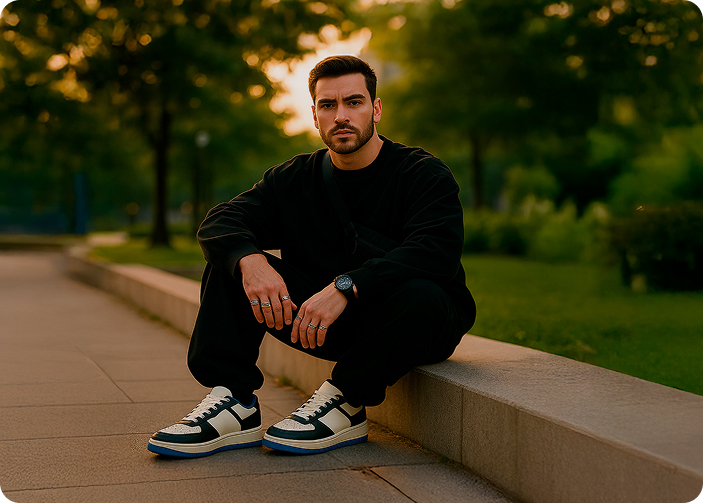
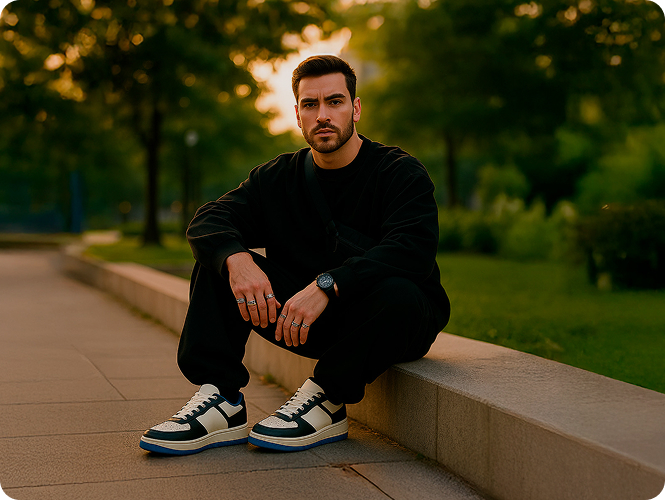
feat: adiciona o readme

diff --git a/shoe-store/index.html b/shoe-store/index.html
@@ -118,12 +118,14 @@
         <section class="grid-section">
             <!-- Grid com produtos em destaque -->
             <div class="card highlight">
-                <div class="top1-content">
-                    <h3 class="card-title">Krypton One</h3>
-                    <p class="card-subtitle">Estilo Urbano com atitude</p>
-                    <div class="cta group">
-                        <a href="#" class="btn btn-outline">Feminino</a>
-                        <a href="#" class="btn btn-outline">Masculino</a>
+                <div class="grid-overlay">
+                    <div class="top1-content">
+                        <h3 class="card-title">Krypton One</h3>
+                        <p class="card-subtitle">Estilo Urbano com atitude</p>
+                        <div class="cta group">
+                            <a href="#" class="btn btn-outline">Feminino</a>
+                            <a href="#" class="btn btn-outline">Masculino</a>
+                        </div>
                     </div>
                 </div>
             </div>

diff --git a/shoe-store/css/product-grid.css b/shoe-store/css/product-grid.css
@@ -1,10 +1,10 @@
 .card {
-    background-size: cover;
     background-position: center;
+     background-size: cover;
     background-repeat: no-repeat;
     position: relative;
     border-radius: 20px;
-    overflow: hidden;
+    /* overflow: hidden; */
 }
 
 
@@ -75,6 +75,7 @@
 .cta-group {
     display: flex;
     gap: 10px;
+    
 }
 
 @media (max-width: 768px) {
@@ -102,7 +103,18 @@
     .sneaker-white,
     .sneaker-purple {
         height: 190px;
+    }   
+}
+
+/* @media screen and (max-width: 1166px) {
+    .card-highlight {
+        height: 490px;
+        background-image: url(../images/banners/card_mobile.jpg.jpg);
     }
 
+    .grid-overlay{
+        padding: 0;
+    }
 
-}
+    
+} */

diff --git a/shoe-store/css/product-category.css b/shoe-store/css/product-category.css
@@ -54,7 +54,7 @@
         background-size: cover;
     }
 
-   @media (max-width: 768px) {
+   @media (max-width: 500px) {
         .categories-section {
            width: 100%;
         }

diff --git a/shoe-store/css/base.css b/shoe-store/css/base.css
@@ -11,7 +11,7 @@ main{
     margin: 0 auto;
 }
 
-@media (max-width: 1280px){
+@media (max-width: 1366px){
     main{
         padding: 0.625rem;
     }

diff --git a/shoe-store/css/hero.css b/shoe-store/css/hero.css
@@ -65,5 +65,9 @@
         max-width: 330px;
         margin: 0 auto;
     }
+
+    
+
+   
 }
 

diff --git a/README.md b/README.md
@@ -1,1 +1,73 @@
-# ecommerce-syntaxwear
+# SyntaxWear
+
+SyntaxWear é um projeto de landing page para um e-commerce de tênis e sneakers, com foco em estilo urbano, esportivo e contemporâneo. A interface foi criada para apresentar os principais modelos, categorias e chamar atenção para as ofertas e novidades.
+
+## Visão geral
+
+Este projeto possui uma estrutura simples e estática, desenvolvida com HTML e CSS, com uma experiência visual moderna e organizada. A página inicial reúne:
+
+- hero section com destaque para um modelo principal;
+- cards de categorias como Casual, Esporte, Moderno e Futurista;
+- grid de produtos em destaque;
+- área de newsletter e footer com navegação complementar.
+
+## Funcionalidades
+
+- Layout moderno e limpo para um e-commerce de moda urbana;
+- Seção inicial com mensagem forte e botões de ação;
+- Categorias visuais para facilitar a navegação;
+- Grade de produtos com destaque visual;
+- Rodapé com informações de contato, redes sociais e navegação secundária.
+
+## Tecnologias utilizadas
+
+- HTML5
+- CSS3
+- Arquivos SVG e imagens para composição visual
+
+## Estrutura do projeto
+
+```text
+README.md
+shoe-store/
+│
+├── index.html
+├── css/
+│   ├── base.css
+│   ├── footer.css
+│   ├── header.css
+│   ├── hero.css
+│   ├── product-category.css
+│   ├── product-grid.css
+│   ├── reset.css
+│   └── variables.css
+├── images/
+│   ├── banners/
+│   ├── icons/
+│   └── products/
+└── pages/
+```
+
+## Como visualizar o projeto
+
+1. Acesse a pasta `shoe-store`.
+2. Abra o arquivo `index.html` em um navegador.
+3. Se preferir, utilize uma extensão como Live Server no VS Code para visualizar a página com atualização automática.
+
+## Como personalizar
+
+- Edite o conteúdo principal em `shoe-store/index.html`.
+- Ajuste os estilos em `shoe-store/css/`.
+- Troque imagens e ícones nas pastas `shoe-store/images/`.
+
+## Objetivo do projeto
+
+O projeto foi desenvolvido para demonstrar uma interface de e-commerce visualmente atractiva, com foco em experiência de usuário, identidade visual e estrutura de página comercial.
+
+## Status
+
+Em desenvolvimento como projeto de estudo/front-end.
+
+## Autor
+
+Projeto criado para o desafio de desenvolvimento front-end com foco em HTML e CSS.
